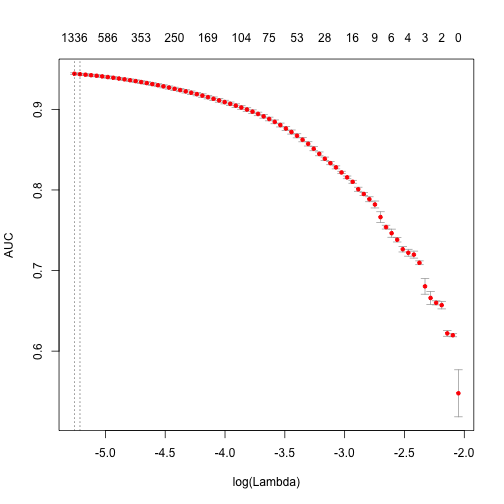
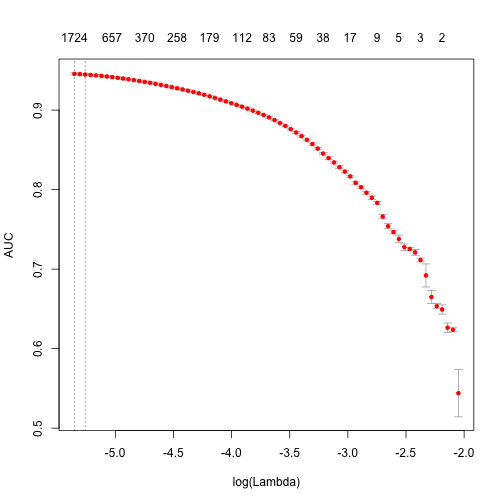
word_tokenizer

diff --git a/_posts/2015-11-09-text2vec.md b/_posts/2015-11-09-text2vec.md
@@ -1,6 +1,6 @@
 ---
 layout: post
-categories : [blog, text2vec]
+category : blog, text2vec
 tags : [R, text-mining, algorithms, text2vec]
 title: 'Analyzing texts with text2vec package.'
 author: "Dmitriy Selivanov"
@@ -17,7 +17,7 @@ There are a lot of changes from my previous [introduction post](http://dsnotes.c
 - **GloVe** word embeddings. Training is **fully parallelized** - asynchronous SGD with adaptive learning rate (AdaGrad). **Works on all platforms, including windows.**
 - Added **ngram** feature to vectorization. Now it is very easy to build *Document-Term matrix*, using arbitrary `ngrams` instead of simple `unigrams`.
 - Switched to `MurmurHash3` for **feature hashing** and add `signed_hash` option, which can [reduce the effect of collisions](https://en.wikipedia.org/wiki/Feature_hashing#Feature_vectorization_using_the_hashing_trick).
-- Now text2vec uses regular exressions engine from `stringr` package (which is built on top of `stringi`). Now `regexp_tokenizer` much is more fast and robust.
+- Now text2vec uses regular exressions engine from `stringr` package (which is built on top of `stringi`). Now `regexp_tokenizer` much is more fast and robust. Simple `word_tokenizer`is also provided.
 
 In this post I'll focus on text vectorization tools provided by [text2vec](https://github.com/dselivanov/text2vec). Also, it will be a base for a `text2vec` vignette. I'll write another post about [GloVe](http://nlp.stanford.edu/projects/glove/) next week, don't miss it. 
 
@@ -103,7 +103,7 @@ Lets examine the first choice. He we collect unique terms from all documents and
 
 {% highlight r %}
 it <- itoken(movie_review[['review']], preprocess_function = tolower, 
-             tokenizer = regexp_tokenizer, chunks_number = 10, progessbar = F)
+             tokenizer = word_tokenizer, chunks_number = 10, progessbar = F)
 # using unigrams here
 t1 <- Sys.time()
 vocab <- vocabulary(iterator = it, ngram = c(1L, 1L))
@@ -113,7 +113,7 @@ print( difftime( Sys.time(), t1, units = 'sec'))
 
 
 {% highlight text %}
-## Time difference of 3.987079 secs
+## Time difference of 3.587275 secs
 {% endhighlight %}
 
 
@@ -125,7 +125,7 @@ Now we can costruct DTM. Again, since all functions related to *corpus* construc
 
 {% highlight r %}
 it <- itoken(movie_review[['review']], preprocess_function = tolower, 
-             tokenizer = regexp_tokenizer, chunks_number = 10, progessbar = F)
+             tokenizer = word_tokenizer, chunks_number = 10, progessbar = F)
 corpus <- create_vocab_corpus(it, vocabulary = vocab)
 dtm <- get_dtm(corpus)
 {% endhighlight %}
@@ -165,7 +165,7 @@ print( difftime( Sys.time(), t1, units = 'sec'))
 
 
 {% highlight text %}
-## Time difference of 44.57128 secs
+## Time difference of 42.67177 secs
 {% endhighlight %}
 
 
@@ -183,7 +183,7 @@ print (paste("max AUC = ", round(max(fit$cvm), 4)))
 
 
 {% highlight text %}
-## [1] "max AUC =  0.9442"
+## [1] "max AUC =  0.9457"
 {% endhighlight %}
 
 Note, that training time is quite high. We can reduce it and also significantly improve accuracy.
@@ -199,7 +199,7 @@ pruned_vocab <- prune_vocabulary(vocab, term_count_min = 10,
  doc_proportion_max = 0.5, doc_proportion_min = 0.001)
 
 it <- itoken(movie_review[['review']], preprocess_function = tolower, 
-             tokenizer = regexp_tokenizer, chunks_number = 10, progessbar = F)
+             tokenizer = word_tokenizer, chunks_number = 10, progessbar = F)
 corpus <- create_vocab_corpus(it, vocabulary = pruned_vocab)
 dtm <- get_dtm(corpus)
 {% endhighlight %}
@@ -254,7 +254,7 @@ print( difftime( Sys.time(), t1, units = 'sec'))
 
 
 {% highlight text %}
-## Time difference of 20.13441 secs
+## Time difference of 19.19166 secs
 {% endhighlight %}
 
 
@@ -272,7 +272,7 @@ print (paste("max AUC = ", round(max(fit$cvm), 4)))
 
 
 {% highlight text %}
-## [1] "max AUC =  0.9506"
+## [1] "max AUC =  0.9497"
 {% endhighlight %}
 
 As you can seem we obtain faster training, and larger AUC.
@@ -285,7 +285,7 @@ We will use up to 3-ngrams:
 
 {% highlight r %}
 it <- itoken(movie_review[['review']], preprocess_function = tolower, 
-             tokenizer = regexp_tokenizer, chunks_number = 10, progessbar = F)
+             tokenizer = word_tokenizer, chunks_number = 10, progessbar = F)
 
 t1 <- Sys.time()
 vocab <- vocabulary(iterator = it, ngram = c(1L, 3L))
@@ -296,7 +296,7 @@ print( difftime( Sys.time(), t1, units = 'sec'))
 
 
 {% highlight text %}
-## Time difference of 23.92558 secs
+## Time difference of 21.42234 secs
 {% endhighlight %}
 
 
@@ -306,7 +306,7 @@ vocab <- vocab %>%
   prune_vocabulary(term_count_min = 10, doc_proportion_max = 0.5, doc_proportion_min = 0.001)
 
 it <- itoken(movie_review[['review']], preprocess_function = tolower, 
-             tokenizer = regexp_tokenizer, chunks_number = 10, progessbar = F)
+             tokenizer = word_tokenizer, chunks_number = 10, progessbar = F)
 
 corpus <- create_vocab_corpus(it, vocabulary = vocab)
 
@@ -316,7 +316,7 @@ print( difftime( Sys.time(), t1, units = 'sec'))
 
 
 {% highlight text %}
-## Time difference of 36.05649 secs
+## Time difference of 32.06087 secs
 {% endhighlight %}
 
 
@@ -368,7 +368,7 @@ print( difftime( Sys.time(), t1, units = 'sec'))
 
 
 {% highlight text %}
-## Time difference of 26.24242 secs
+## Time difference of 23.21233 secs
 {% endhighlight %}
 
 
@@ -386,7 +386,7 @@ print (paste("max AUC = ", round(max(fit$cvm), 4)))
 
 
 {% highlight text %}
-## [1] "max AUC =  0.9573"
+## [1] "max AUC =  0.9566"
 {% endhighlight %}
 
 So improved our model a little bit more. Now, I'm leaving further tuning for the reader.
@@ -402,7 +402,7 @@ Here I will demonstrate, how to use feature hashing in **text2vec**:
 t1 <- Sys.time()
 
 it <- itoken(movie_review[['review']], preprocess_function = tolower, 
-             tokenizer = regexp_tokenizer, chunks_number = 10, progessbar = F)
+             tokenizer = word_tokenizer, chunks_number = 10, progessbar = F)
 
 fh <- feature_hasher(hash_size = 2**18, ngram = c(1L, 3L))
 
@@ -413,7 +413,7 @@ print( difftime( Sys.time(), t1, units = 'sec'))
 
 
 {% highlight text %}
-## Time difference of 13.09422 secs
+## Time difference of 12.53 secs
 {% endhighlight %}
 
 
@@ -465,7 +465,7 @@ print( difftime( Sys.time(), t1, units = 'sec'))
 
 
 {% highlight text %}
-## Time difference of 60.67092 secs
+## Time difference of 54.91197 secs
 {% endhighlight %}
 
 
@@ -483,7 +483,7 @@ print (paste("max AUC = ", round(max(fit$cvm), 4)))
 
 
 {% highlight text %}
-## [1] "max AUC =  0.9482"
+## [1] "max AUC =  0.947"
 {% endhighlight %}
 
 As you can see, we got a little bit worse AUC, but DTM construction time was considerably lower. On large collections of documents this can become a serious argument.
